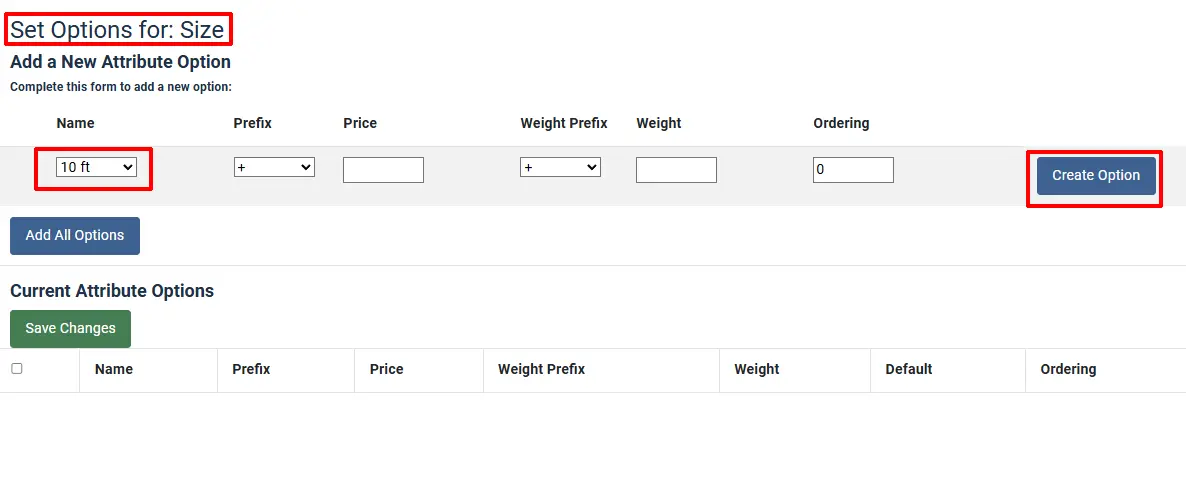
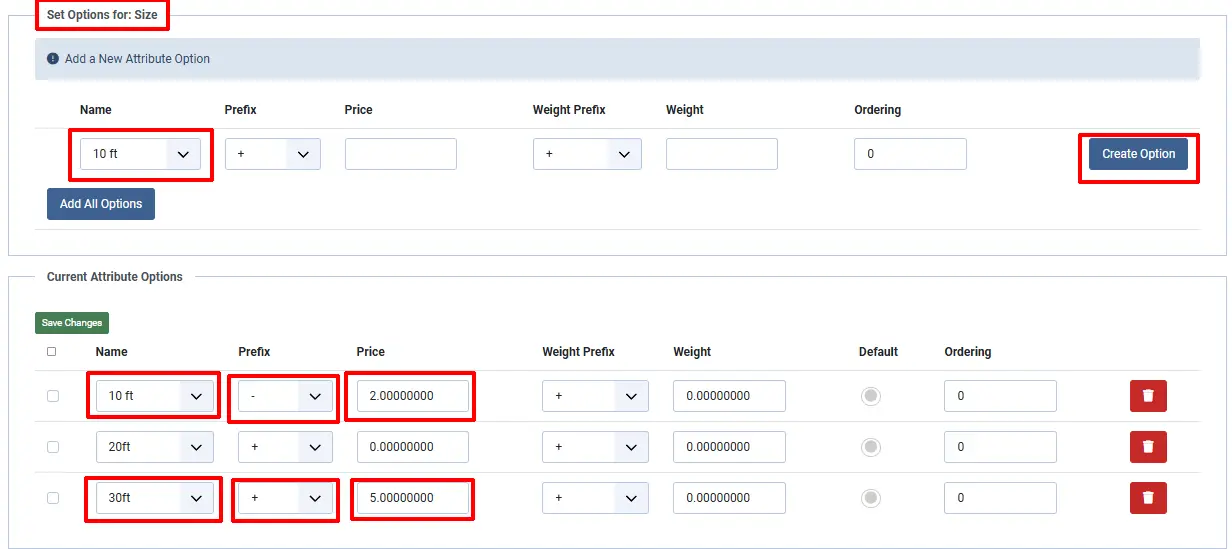
GITBOOK-57: No subject

diff --git a/product-types/simple-product.md b/product-types/simple-product.md
@@ -4,7 +4,9 @@
 
 A most common product type. It suits the requirements of most of the store owners.
 
-You can create a simple product with or without product options. The inventory for this product type is managed for the primary product (Not for the options). All option types can be associated with the simple product.
+You can create a simple product with or without product options. The inventory for this product type is managed for the primary product (Not for the options). All option types can be associated with the simple product. A simple product is great for someone who only needs to keep track of inventory for the primary product, and there is only one SKU for all of the options the product offers, ie: size, color, etc.&#x20;
+
+**Note: If you have multiple SKUs and want to keep track of individual inventory, then you would want to set up your product as a Flexible or Advanced Product instead of a Simple Product.**
 
 ![Simple product dashboard](../.gitbook/assets/simple-menu-bar-new.webp)
 
@@ -77,10 +79,10 @@ NOTE: This notification will display if:
 
 This option is for those who sell fast-moving products. So even if a product stock reaches 0, the customers could still order.
 
-* **Stock Status:** Select stock status i.e., In stock or Out of stock
+* **Stock Status:** Select stock status, i.e, In stock or Out of stock
 * **Notify if stock goes below:** Set minimum stock level for low stock alert
 * **Quantity Restriction:** Choose whether the purchase quantity is restricted, and if 'Yes', set the limits for minimum and maximum quantity for a purchase by entering the quantities in the fields provided
-* **Use store configuration:** If you select 'Use store configuration' you cannot enter the max and min quantity fields, as they will be disabled
+* **Use store configuration:** If you select 'Use store configuration', you cannot enter the max and min quantity fields, as they will be disabled
 
 ### Video Tutorial: <a href="#video-tutorial" id="video-tutorial"></a>
 
@@ -255,7 +257,11 @@ Once you are finished adding the options, you can select if you want them to be 
 
 <figure><img src="../.gitbook/assets/simple-options-new (1).webp" alt=""><figcaption></figcaption></figure>
 
-Next you will want to show all of the attributes for each option. This can be done by clicking on 'Set Option Value'. For example, if the product offers different sizes, then click on each size that is offered. Repeat this for each size and then do the same thing for the next option that you set up. See image below
+Next, you will want to show all of the attributes for each option. This can be done by clicking on 'Set Option Value'. For example, if the product offers different sizes, then click on each size that is offered. Repeat this for each size and then do the same thing for the next option that you set up.&#x20;
+
+If the attributes are all the same pricing then leave the price section blank but if you want to charge more or less for a specific attribute then you can specify that in this section. for example. If the 30 ft option is $5 more than the primary product, you will want the Prefix set as '+' and the Price set as $5.00. And if the 10 ft option is offered at $2 less than the primary product, then set the Prefix as '-' and the Price as $2.00. See example below.
+
+See image below
 
 <figure><img src="../.gitbook/assets/simple-options-2.webp" alt=""><figcaption></figcaption></figure>
 
